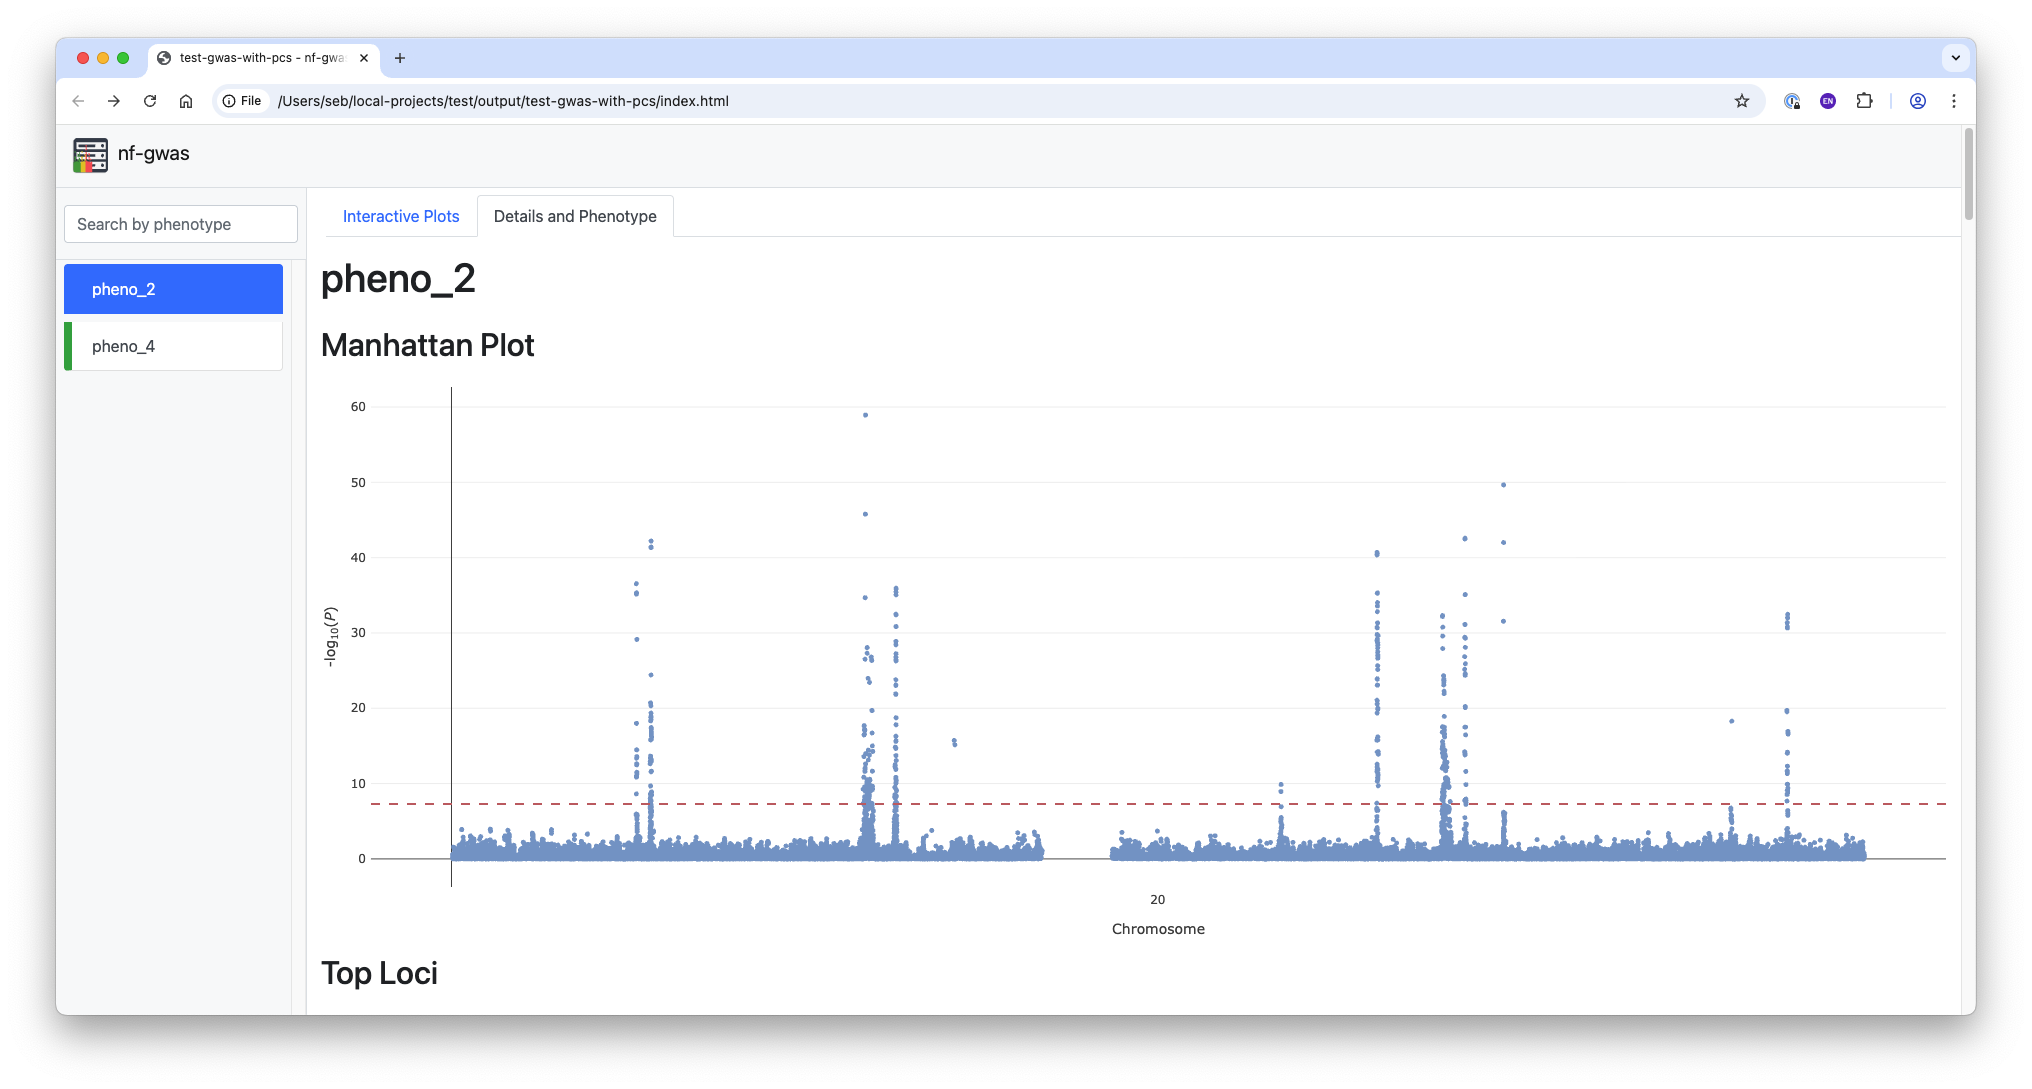
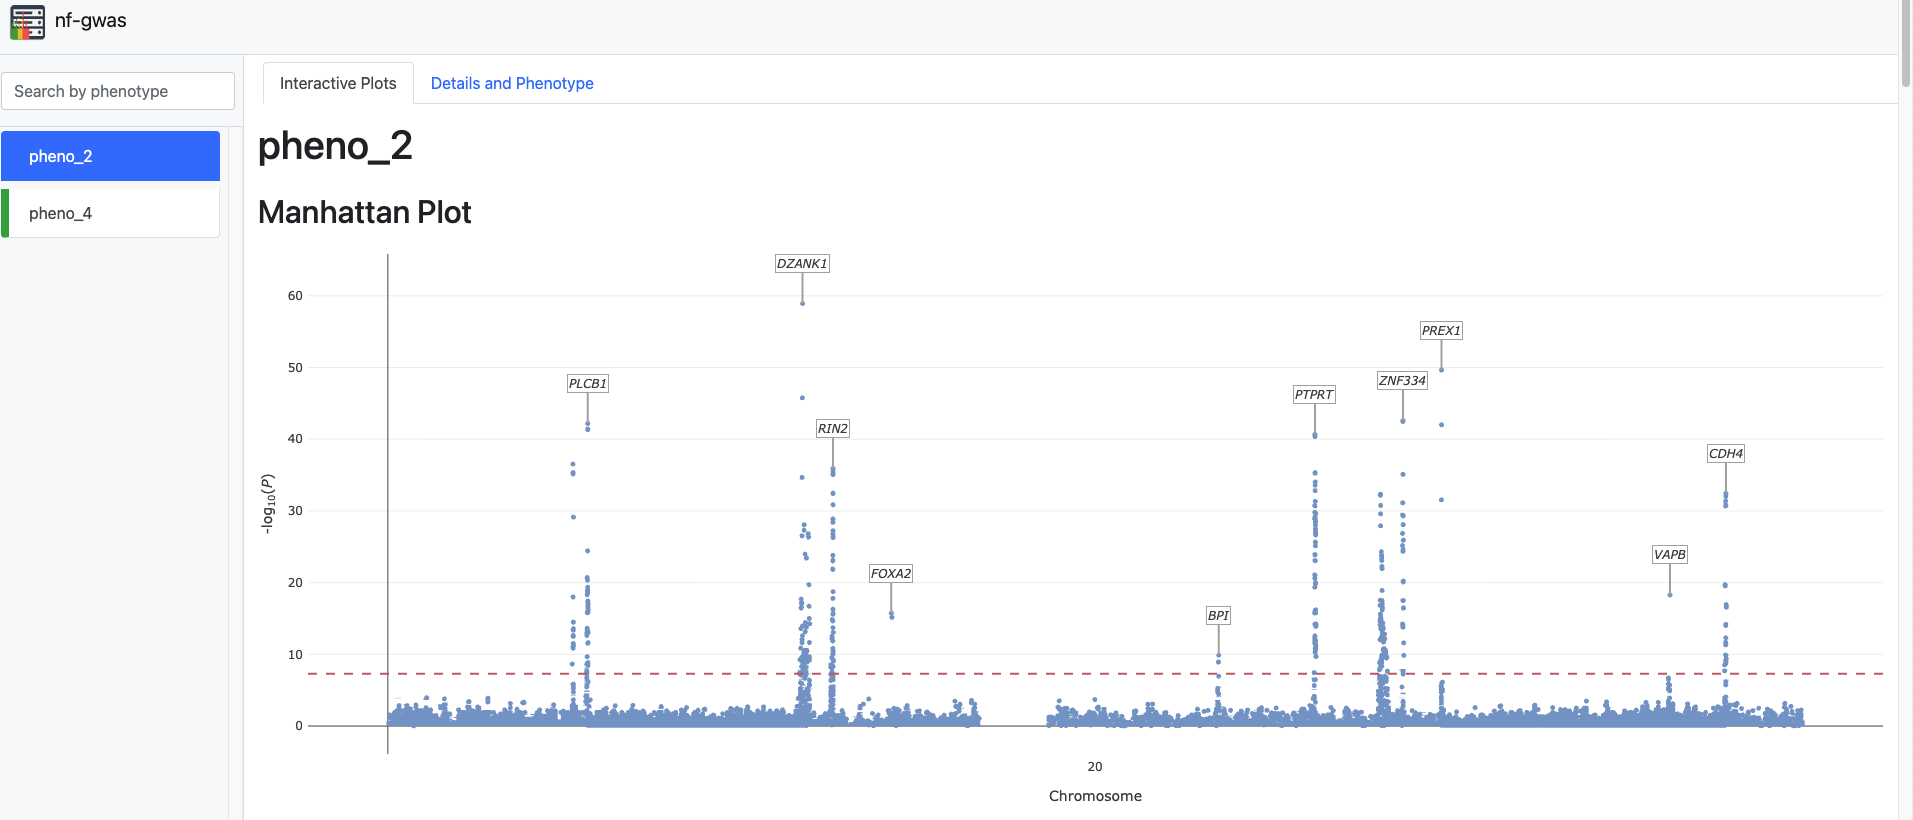
Built site for gh-pages

diff --git a/gwas-with-nf-gwas.html b/gwas-with-nf-gwas.html
@@ -275,13 +275,12 @@ pre > code.sourceCode > span > a:first-child::before { text-decoration: underlin
 <span id="cb2-12"><a href="#cb2-12" aria-hidden="true" tabindex="-1"></a>  phenotypes_apply_rint          <span class="op">=</span> <span class="kw">true</span></span>
 <span id="cb2-13"><a href="#cb2-13" aria-hidden="true" tabindex="-1"></a>  manhattan_annotation_enabled   <span class="op">=</span> <span class="kw">true</span></span>
 <span id="cb2-14"><a href="#cb2-14" aria-hidden="true" tabindex="-1"></a>  rsids_filename                 <span class="op">=</span> <span class="st">"rsids-v154-hg19-chr20.index.gz"</span></span>
-<span id="cb2-15"><a href="#cb2-15" aria-hidden="true" tabindex="-1"></a>  binning_csv                    <span class="op">=</span> <span class="st">'NONE'</span></span>
-<span id="cb2-16"><a href="#cb2-16" aria-hidden="true" tabindex="-1"></a>  binning_html                   <span class="op">=</span> <span class="st">'NONE'</span>  </span>
-<span id="cb2-17"><a href="#cb2-17" aria-hidden="true" tabindex="-1"></a><span class="op">}</span></span></code><button title="Copy to Clipboard" class="code-copy-button"><i class="bi"></i></button></pre></div>
+<span id="cb2-15"><a href="#cb2-15" aria-hidden="true" tabindex="-1"></a>  binning_size                   <span class="op">=</span> <span class="dv">50000</span></span>
+<span id="cb2-16"><a href="#cb2-16" aria-hidden="true" tabindex="-1"></a><span class="op">}</span></span></code><button title="Copy to Clipboard" class="code-copy-button"><i class="bi"></i></button></pre></div>
 <section id="run-gwas" class="level3">
 <h3 class="anchored" data-anchor-id="run-gwas">Run GWAS</h3>
 <p>Execute the pipeline:</p>
-<div class="sourceCode" id="cb3"><pre class="sourceCode bash code-with-copy"><code class="sourceCode bash"><span id="cb3-1"><a href="#cb3-1" aria-hidden="true" tabindex="-1"></a><span class="ex">nextflow</span> run genepi/nf-gwas <span class="at">-r</span> v1.0.10  <span class="at">-profile</span> docker <span class="at">-c</span> gwas.config</span></code><button title="Copy to Clipboard" class="code-copy-button"><i class="bi"></i></button></pre></div>
+<div class="sourceCode" id="cb3"><pre class="sourceCode bash code-with-copy"><code class="sourceCode bash"><span id="cb3-1"><a href="#cb3-1" aria-hidden="true" tabindex="-1"></a><span class="ex">nextflow</span> run genepi/nf-gwas <span class="at">-r</span> v1.0.11  <span class="at">-profile</span> docker <span class="at">-c</span> gwas.config</span></code><button title="Copy to Clipboard" class="code-copy-button"><i class="bi"></i></button></pre></div>
 <div class="callout callout-style-default callout-note callout-titled">
 <div class="callout-header d-flex align-content-center">
 <div class="callout-icon-container">
@@ -303,7 +302,7 @@ Note
 </section>
 <section id="gwas-with-pca" class="level2">
 <h2 class="anchored" data-anchor-id="gwas-with-pca">GWAS With PCA</h2>
-<p>Next, we run a logistic regression GWAS on a simulated phenotype while adjusting for population structure using principal components. Please create a <code>gwas2.config</code> file with this content:</p>
+<p>Next, we run a logistic regression GWAS on a simulated phenotype while adjusting for population structure using principal components. Please create a <code>gwas_with_pcs.config</code> file with this content:</p>
 <div class="sourceCode" id="cb4"><pre class="sourceCode groovy code-with-copy"><code class="sourceCode groovy"><span id="cb4-1"><a href="#cb4-1" aria-hidden="true" tabindex="-1"></a>params <span class="op">{</span></span>
 <span id="cb4-2"><a href="#cb4-2" aria-hidden="true" tabindex="-1"></a>  project                        <span class="op">=</span> <span class="st">'test-gwas-with-pcs'</span></span>
 <span id="cb4-3"><a href="#cb4-3" aria-hidden="true" tabindex="-1"></a>  genotypes_association          <span class="op">=</span> <span class="st">'gwas.imputed.chr20.dose.vcf.gz'</span></span>
@@ -320,13 +319,12 @@ Note
 <span id="cb4-14"><a href="#cb4-14" aria-hidden="true" tabindex="-1"></a>  covariates_filename            <span class="op">=</span> <span class="st">'covariates.txt'</span></span>
 <span id="cb4-15"><a href="#cb4-15" aria-hidden="true" tabindex="-1"></a>  covariates_columns             <span class="op">=</span> <span class="st">'PC1,PC2,PC3,PC4,PC5,PC6,PC7,PC8,PC9,PC10'</span></span>
 <span id="cb4-16"><a href="#cb4-16" aria-hidden="true" tabindex="-1"></a>  rsids_filename                 <span class="op">=</span> <span class="st">"rsids-v154-hg19-chr20.index.gz"</span></span>
-<span id="cb4-17"><a href="#cb4-17" aria-hidden="true" tabindex="-1"></a>  binning_csv                    <span class="op">=</span> <span class="st">'NONE'</span></span>
-<span id="cb4-18"><a href="#cb4-18" aria-hidden="true" tabindex="-1"></a>  binning_html                   <span class="op">=</span> <span class="st">'NONE'</span></span>
-<span id="cb4-19"><a href="#cb4-19" aria-hidden="true" tabindex="-1"></a><span class="op">}</span></span></code><button title="Copy to Clipboard" class="code-copy-button"><i class="bi"></i></button></pre></div>
+<span id="cb4-17"><a href="#cb4-17" aria-hidden="true" tabindex="-1"></a>  binning_size                   <span class="op">=</span> <span class="dv">50000</span></span>
+<span id="cb4-18"><a href="#cb4-18" aria-hidden="true" tabindex="-1"></a><span class="op">}</span></span></code><button title="Copy to Clipboard" class="code-copy-button"><i class="bi"></i></button></pre></div>
 <section id="run-gwas-1" class="level3">
 <h3 class="anchored" data-anchor-id="run-gwas-1">Run GWAS</h3>
 <p>Execute the pipeline:</p>
-<div class="sourceCode" id="cb5"><pre class="sourceCode bash code-with-copy"><code class="sourceCode bash"><span id="cb5-1"><a href="#cb5-1" aria-hidden="true" tabindex="-1"></a><span class="ex">nextflow</span> run genepi/nf-gwas <span class="at">-r</span> v1.0.10 <span class="at">-profile</span> docker <span class="at">-c</span> gwas2.config</span></code><button title="Copy to Clipboard" class="code-copy-button"><i class="bi"></i></button></pre></div>
+<div class="sourceCode" id="cb5"><pre class="sourceCode bash code-with-copy"><code class="sourceCode bash"><span id="cb5-1"><a href="#cb5-1" aria-hidden="true" tabindex="-1"></a><span class="ex">nextflow</span> run genepi/nf-gwas <span class="at">-r</span> v1.0.11 <span class="at">-profile</span> docker <span class="at">-c</span> gwas_with_pcs.config</span></code><button title="Copy to Clipboard" class="code-copy-button"><i class="bi"></i></button></pre></div>
 </section>
 </section>
 <section id="results-1" class="level2">
